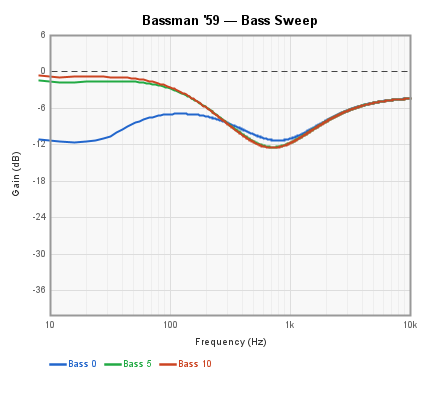
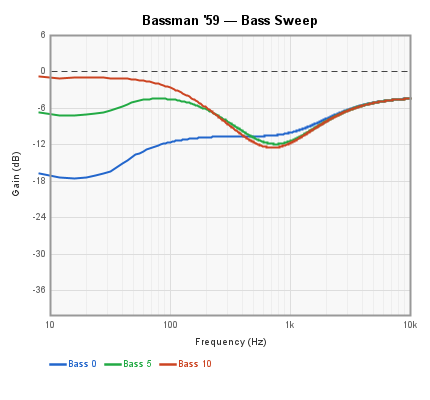
Apply log taper to Bassman bass control for even slider spacing
The paper specifies a logarithmic potentiometer for the bass control.
Maps slider position through (50^x - 1)/49 so mid-rotation produces
audibly distinct response from full rotation. Regenerated doc plots.

diff --git a/src/com/holycityaudio/SpinCAD/CADBlocks/BassmanEQCADBlock.java b/src/com/holycityaudio/SpinCAD/CADBlocks/BassmanEQCADBlock.java
@@ -218,11 +218,25 @@ public class BassmanEQCADBlock extends FilterCADBlock {
 	}
 
 	/**
+	 * Log taper for bass control — models the logarithmic potentiometer
+	 * used in the real circuit (Yeh/Smith Section 1.2).
+	 * Maps linear slider [0,1] to resistance ratio [0,1] with log curve.
+	 * At slider midpoint (0.5), output is ~0.12 instead of 0.5.
+	 */
+	static double logTaper(double linear) {
+		// Standard audio-taper approximation: (a^x - 1)/(a - 1)
+		// a=50 gives a good match to typical log pots
+		final double a = 50.0;
+		return (Math.pow(a, linear) - 1.0) / (a - 1.0);
+	}
+
+	/**
 	 * Compute the 7 parallel-form parameters for given tone control settings.
+	 * Applies log taper to bass control before computing coefficients.
 	 * Returns { K, R1, p1, R2, p2, R3, p3 }
 	 */
 	double[] computeParams(double tVal, double mVal, double lVal) {
-		double[] sCoeffs = computeSCoeffs(tVal, mVal, lVal);
+		double[] sCoeffs = computeSCoeffs(tVal, mVal, logTaper(lVal));
 		double[] zCoeffs = bilinearTransform(sCoeffs, getSamplerate());
 		return partialFractionExpansion(zCoeffs);
 	}
